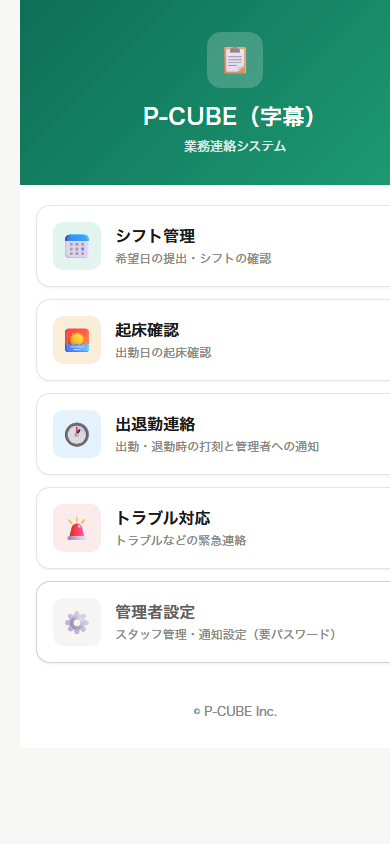
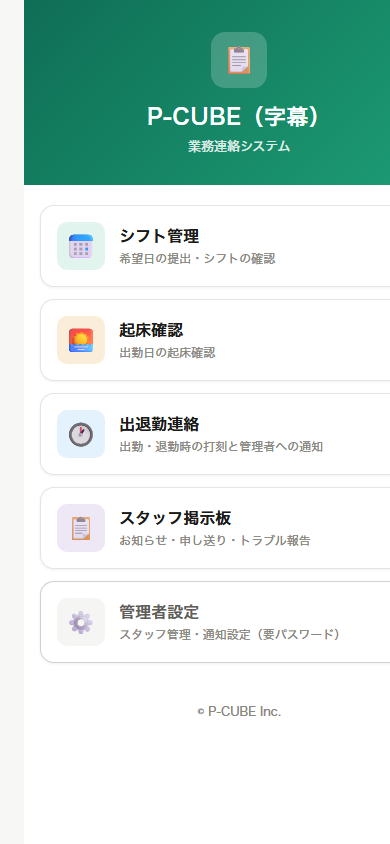
docs: スタッフ用マニュアルを最新仕様に更新
- メインメニュー：トラブル対応→スタッフ掲示板に差し替え
- 出退勤連絡：3ボタン構成・シフト外の日は押せない・1日1回（送信済み表示）・トラブル報告フォームと緊急電話の説明を追加
- スタッフ掲示板の章を新設（4種の投稿・確認リアクション・自分の投稿の編集削除・LINEから開く必要がある旨）
- シフト確認：業務種別（リスピーク/もじぱ/研修/---）の見かたを追記
- 困ったときは：ボタンが押せない場合の対処を追加
- スクリーンショット：top/attendanceを現行UIで撮り直し、board（氏名は「スタッフ」に匿名化済み）を新規追加、旧トラブル対応ページのtrouble.pngを削除

diff --git a/CLAUDE.md b/CLAUDE.md
@@ -63,6 +63,7 @@
 - [x] **出退勤：確定シフト外は出勤/退勤ボタンを無効化（当初は出退勤のみ、localStorage管理）**
 - [x] **出退勤：シフト確定表示の旧フォーマット（業務A/B）を「---」に正規化**
 - [x] **出退勤：トラブル報告ボタンもシフト外は無効化・サーバー側で当日送信済み判定（二重打刻防止）**（2026-07-07）
+- [x] **MANUAL_STAFF.md を最新仕様に更新**（掲示板・出退勤3ボタン・送信済み/シフト外の説明追加。スクリーンショットもtop/attendance撮り直し・board新規・trouble削除）（2026-07-07）
 
 ---
 
@@ -144,4 +145,4 @@
 | 2026-06-16 | 出退勤統合・掲示板（情報交換）機能実装・全デプロイ完了 | okuda PC |
 | 2026-06-17 | 6件改修（出退勤UI・定型文本文・シフト編集・掲示板LINE通知・バグ修正）デプロイ完了 | okuda PC |
 | 2026-06-18〜06-24 | 8件改修（ホーム画面差替・掲示板研修報告/編集削除・シフト種別4択化・出退勤シフト外無効化・業務A正規化等）4コミット。**git pushは未実施のまま放置**（今回判明） | okuda PC |
-| 2026-07-07 | 未push3コミットをpush（失効トークンを除去しブラウザ認証に切替）／出退勤：トラブル報告もシフト外無効化・サーバー側二重打刻防止を追加しattendance@9デプロイ・Pages反映確認／未コミットファイル整理（MANUAL.md分冊化確定・screenshots追加・仕様書追加） | 別PC |
+| 2026-07-07 | 未push3コミットをpush（失効トークンを除去しブラウザ認証に切替）／出退勤：トラブル報告もシフト外無効化・サーバー側二重打刻防止を追加しattendance@9デプロイ・Pages反映確認／未コミットファイル整理（MANUAL.md分冊化確定・screenshots追加・仕様書追加）／MANUAL_STAFF.mdを最新仕様に更新（掲示板・出退勤3ボタン・スクショ撮り直し） | 別PC |